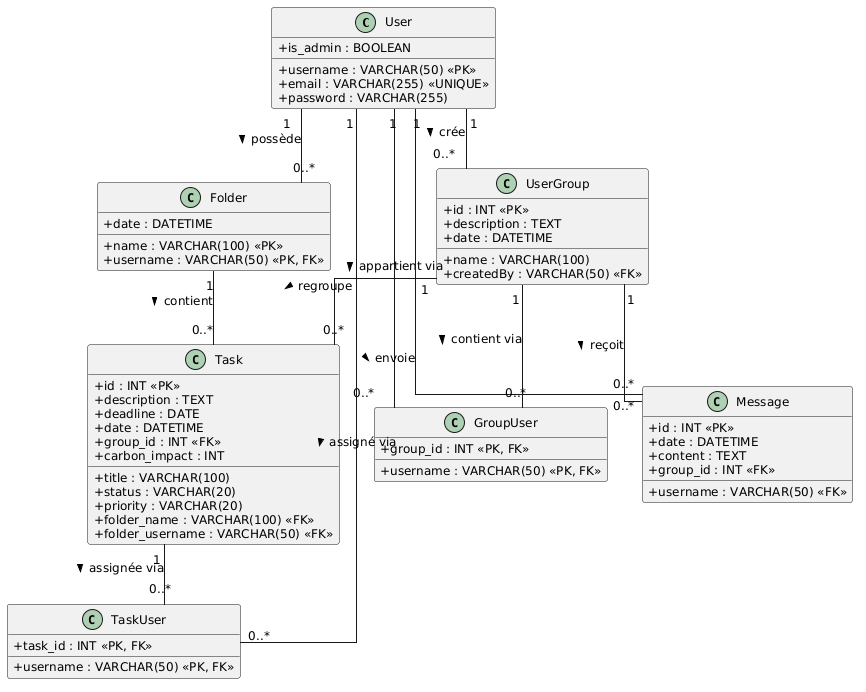
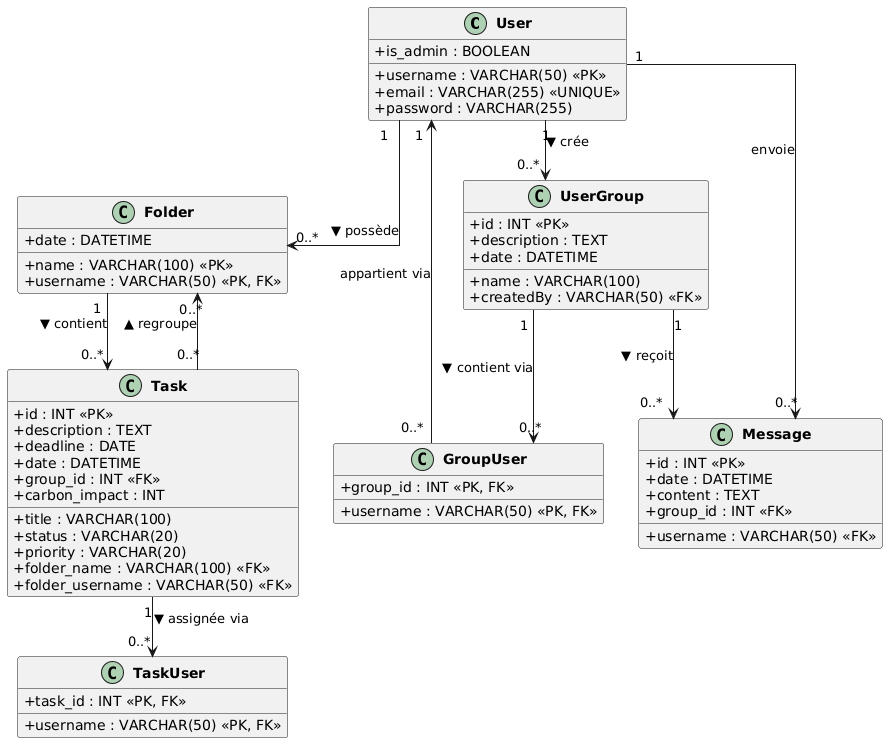
Correction diagramme

diff --git a/frontend/index.html b/frontend/index.html
@@ -4,8 +4,8 @@
     <meta charset="UTF-8">
     <link rel="icon" href="/favicon.ico">
     <meta name="viewport" content="width=device-width, initial-scale=1.0">
-    <title>To-Doux — Pour la Terre</title>
-    <meta name="description" content="To-Doux pour la Terre — Gérez vos tâches en mesurant votre empreinte carbone.">
+    <title>To-Doux - Pour la Terre</title>
+    <meta name="description" content="To-Doux pour la Terre - Gérez vos tâches en mesurant votre empreinte carbone.">
   </head>
   <body>
     <div id="app"></div>

diff --git a/frontend/src/App.vue b/frontend/src/App.vue
@@ -3,7 +3,6 @@ import Toast from '@/components/Toast.vue'
 </script>
 
 <template>
-  <!-- Decorative background blobs (fixed, behind everything) -->
   <div class="fixed inset-0 pointer-events-none overflow-hidden" aria-hidden="true" style="z-index:-1">
     <div class="absolute -top-48 -right-48 w-[520px] h-[520px] rounded-full"
          style="background:radial-gradient(circle,rgba(134,239,172,0.22) 0%,transparent 70%);filter:blur(70px)"></div>